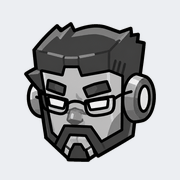
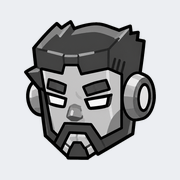
Redraw the gladiator without glasses
Assisted-by: Claude Opus 5.5

Changed region(s): [[0.1111, 0.1111, 0.8889, 0.9167]]

diff --git a/LICENSE-ARTWORK.md b/LICENSE-ARTWORK.md
@@ -1,7 +1,7 @@
 # The gladiator artwork
 
 gladios's code and documentation are under the MIT license in [LICENSE](LICENSE). The gladiator
-artwork is not. That's `public/gladios.webp`, the images made from it in `website/` (`icon.png`,
+artwork is not. That's `public/gladios.webp`, the gladiator images in `website/` (`icon.png`,
 `favicon.png`, `favicon.ico`, `apple-touch-icon.png` and `og.png`), and any other picture of the
 gladiator.
 
